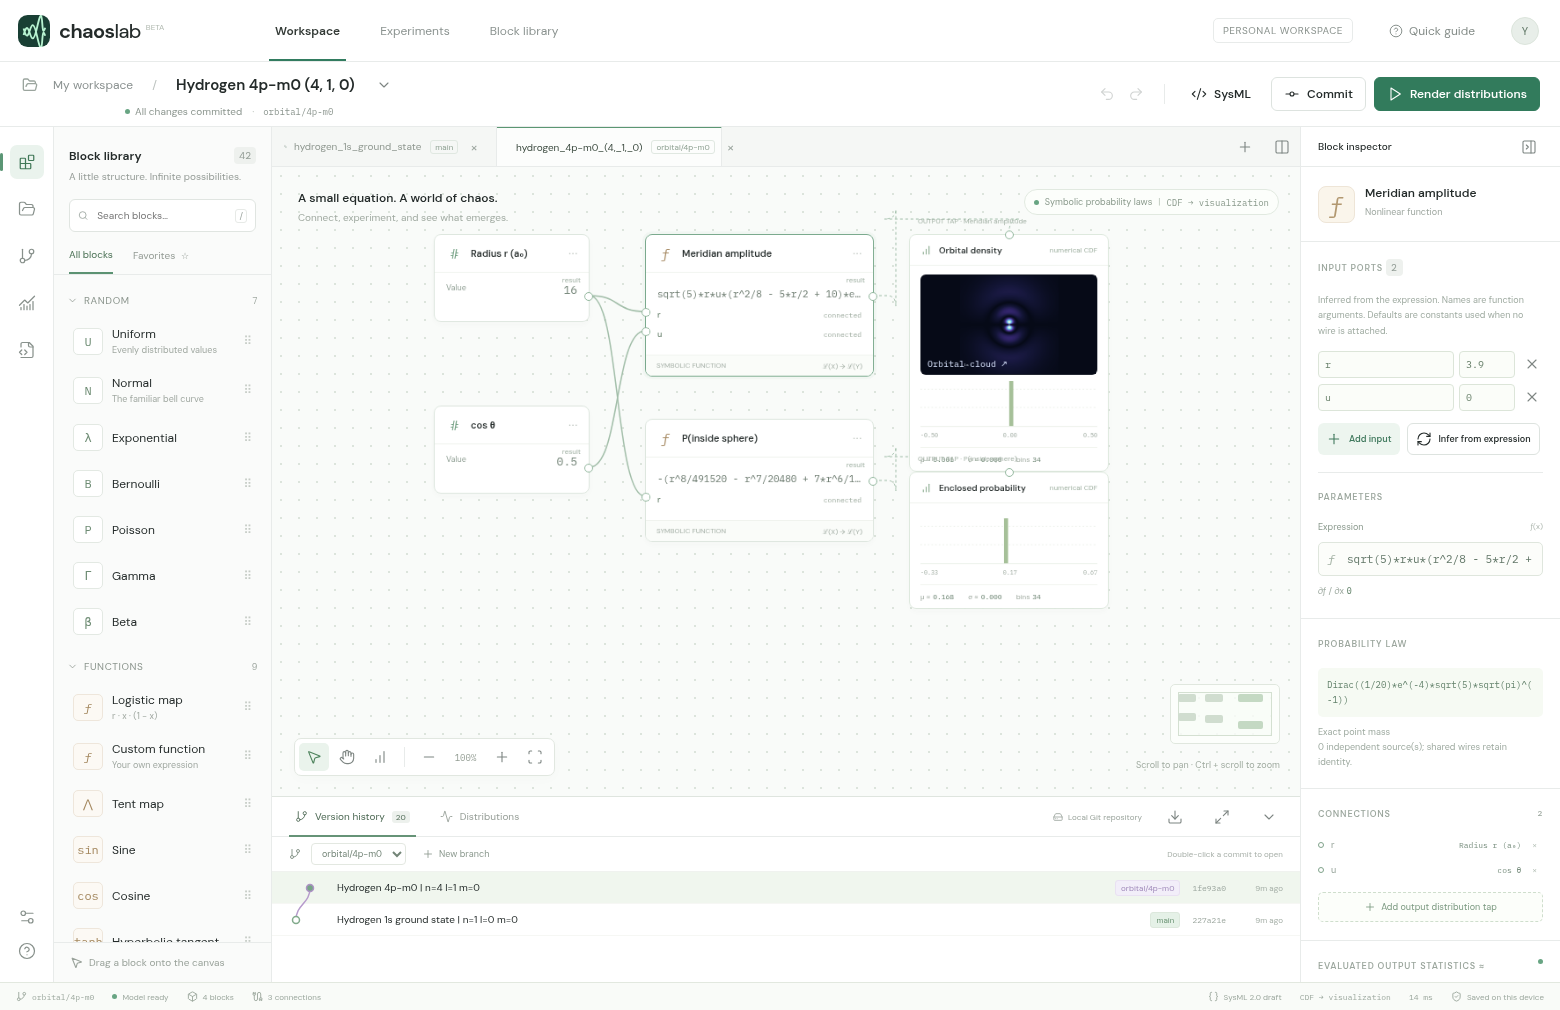
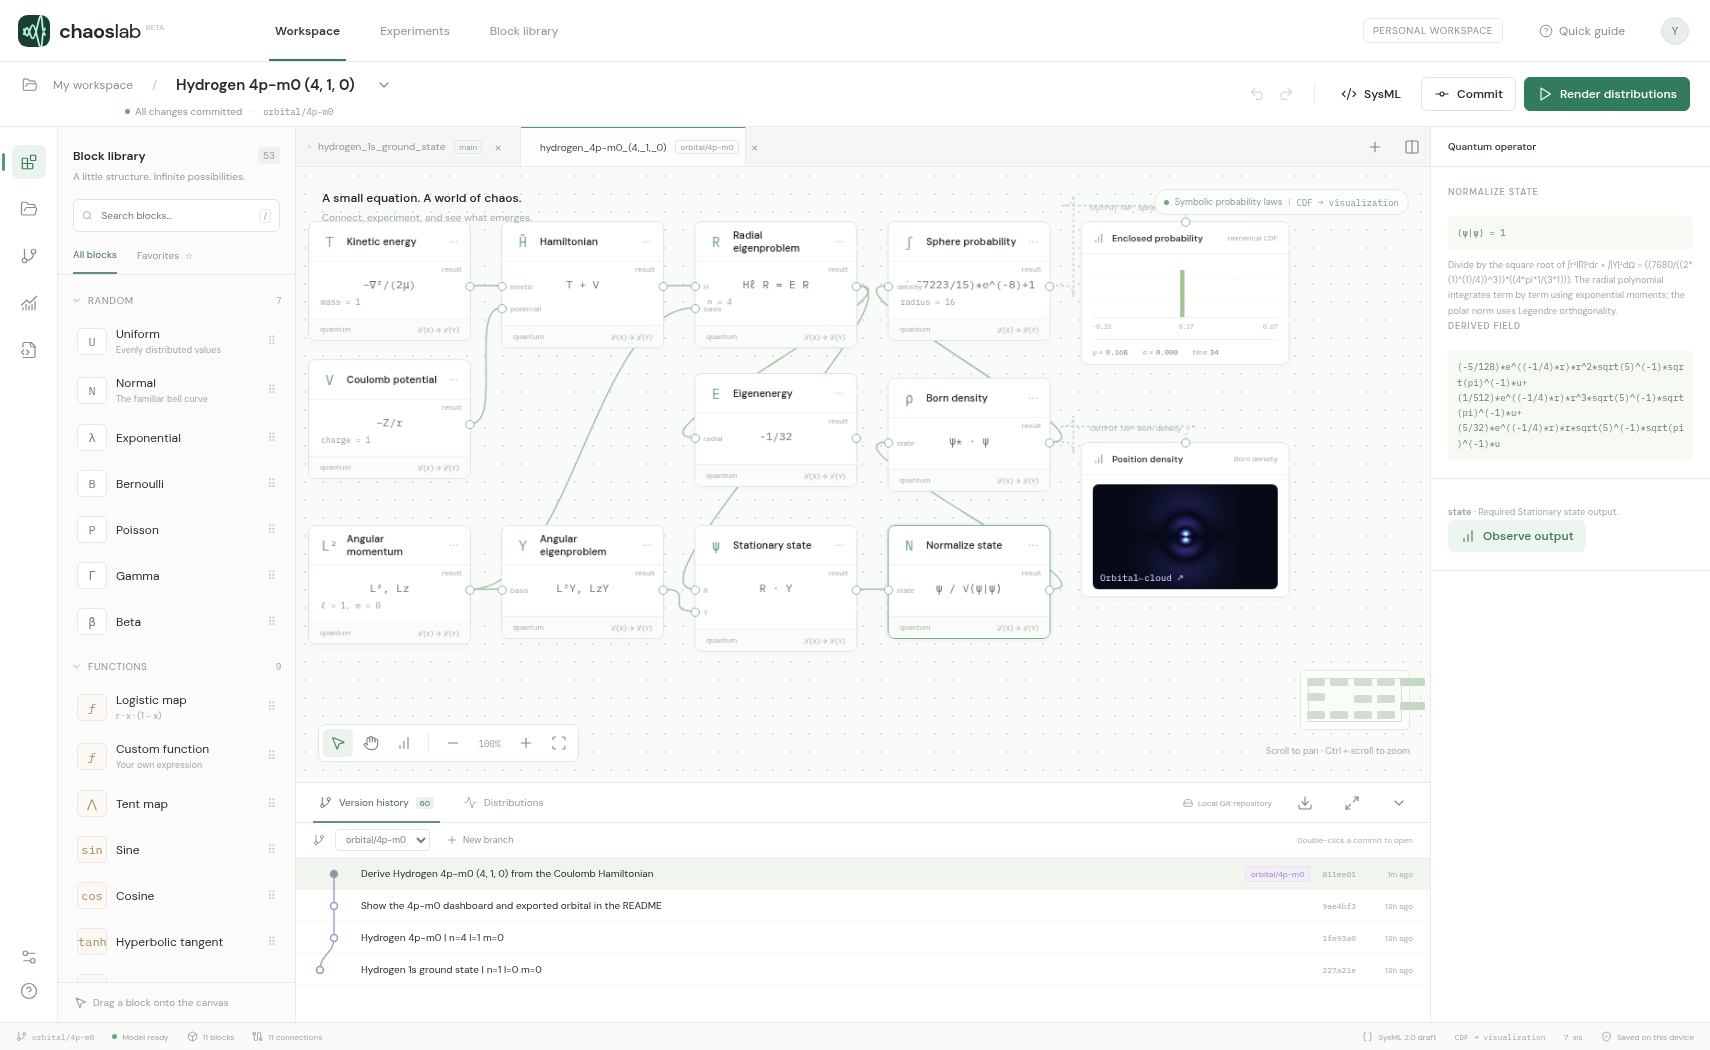
Show the derived state and operator graph for orbital/4p-m0

diff --git a/README.md b/README.md
@@ -4,6 +4,8 @@ Open **Version history** in Chaos Lab to explore the 20 hydrogen designs in this
 
 ## Hydrogen 4p (n = 4, ℓ = 1, m = 0)
 
+The connected Hamiltonian and eigenstate solvers give $E=-1/32$ Hartree for this state.
+
 ![Chaos Lab dashboard with the 4p model, m = 0, open in version history](dashboard.png)
 
 Radial nodes: 2. Polar nodes: 1. Plot half-width: 32 Bohr radii.
@@ -22,7 +24,7 @@ cd hydrogen_wavefunction
 python studio.py
 ```
 
-On Windows you can use `py studio.py`. On Linux you can use `python3 studio.py`. The first launch downloads the pinned Chaos Lab browser build. Double-click a commit to open it in a tab. Open another and use **Split view** to compare them. **Orbital cloud ↗** opens the spatial plots. The launcher reads the Git objects from your clone, including origin branches. Run `git fetch origin` and restart the launcher to load new remote branches.
+On Windows you can use `py studio.py`. On Linux you can use `python3 studio.py`. The first launch downloads the pinned Chaos Lab browser build. Double-click a commit to open it in a tab. Open another and use **Split view** to compare them. **Orbital cloud ↗** opens the spatial plots. The launcher reads the Git objects from your clone, including origin branches. For an existing clone, update the checked-out branch with `git pull --ff-only`, fetch the other branches with `git fetch origin`, and restart the launcher. Double-click the latest commit for the design you want to explore.
 
 To compare states with the same radial law, open `orbital/2p-m0` and `orbital/2p-m1`. At the same radius their enclosed-probability probes agree. The first slice is dark on the equatorial plane, while the second is dark along the polar axis.
 
@@ -32,7 +34,17 @@ To compare states with the same radial law, open `orbital/2p-m0` and `orbital/2p
 
 Branch names encode `(n, ℓ, m)`. For example, `orbital/3d-m1` is `(3,2,1)`. Each snapshot includes the editable graph, its compiled symbolic representation, and its SysML text. Each excited-state branch also contains a reference cross-section.
 
-Coordinates are in Bohr radii. These are normalized fixed-proton, nonrelativistic spatial eigenstates in the complex spherical-harmonic basis. For a fixed m the azimuthal phase is exp(i m φ), so probability density is axially symmetric. The graph evaluates the real meridian amplitude at φ = 0 using radius r and u = cos θ. Its square is probability per unit volume. The sphere probe integrates the radial Born law. The field tap sweeps the same amplitude expression for the x–z slice and its projected detections. Detections are drawn for display from a numerical grid of the final density including the r² volume factor. Brightness and plotting windows are scaled per orbital.
+## How the graph derives this orbital
+
+1. **Kinetic energy** and **Coulomb potential** supply the relative-coordinate operators in atomic units. Their wires feed **Hamiltonian**, which constructs $H=-\nabla^2/(2\mu)-Z/r$. The default is a fixed proton, $Z=\mu=1$.
+2. **Angular momentum** selects the joint eigenvalues of $L^2$ and $L_z$. **Radial eigenproblem** uses that angular eigenvalue in the centrifugal term. Regularity at the origin, decay at infinity, and radial-series termination give the polynomial and energy. **Angular eigenproblem** constructs the polar polynomial by Rodrigues differentiation and includes the phase $e^{im\phi}$.
+3. **Stationary state** multiplies the separated basis functions. **Normalize state** computes their norm with the spherical volume measure. **Born density** takes the squared modulus of the normalized state. **Sphere probability** integrates that density to the probe radius.
+4. Select a block to inspect its equation and derivation. Change **Nuclear charge** from 1 to 2. The energy becomes four times more negative and the orbital contracts by a factor of two. The plot rescales with the orbital, so use its Bohr-radius scale bar to see the change.
+
+The central slice evaluates the final density in the x–z plane. Projected detections sample the final density on a finite radial and angular grid with the spherical volume factor. Coordinates use Bohr radii and energy uses Hartree.
+
+The branch stores the operator graph in `model.json`, its derived fields and scalar laws in `model.symbolic.json`, and the block connections in `model.sysml`. With SymPy installed, run `python tools/verify_state.py` in a checkout of this branch to check the eigenvalue equations, normalization, radial reference solution and sphere integral.
+
 
 | n | ℓ | m | Design branch |
 |---|---|---|---|
